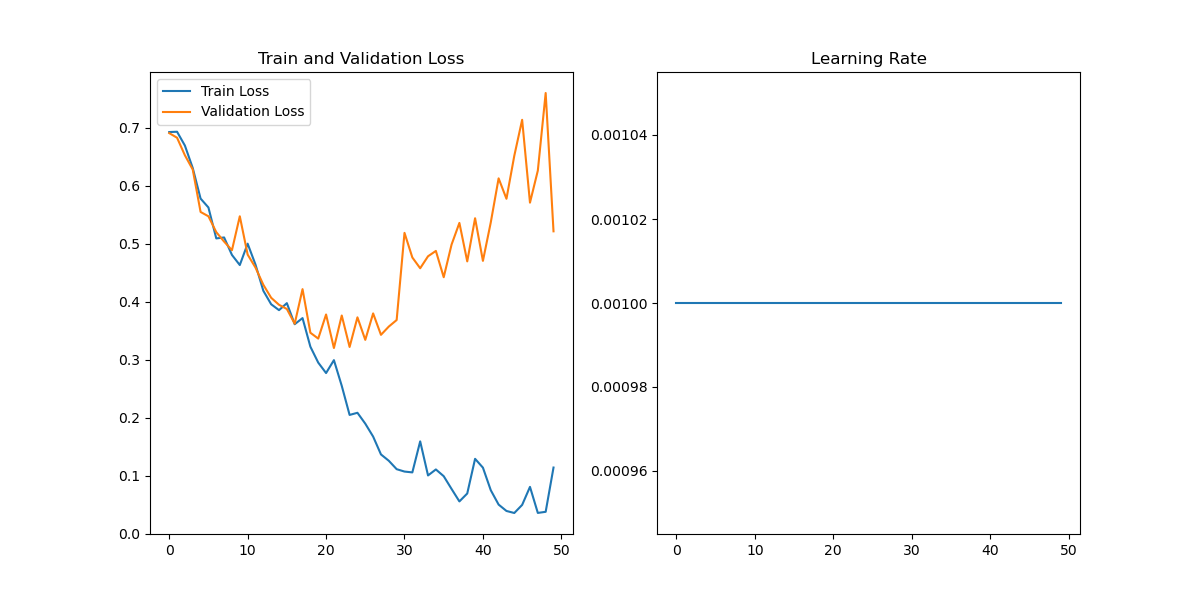
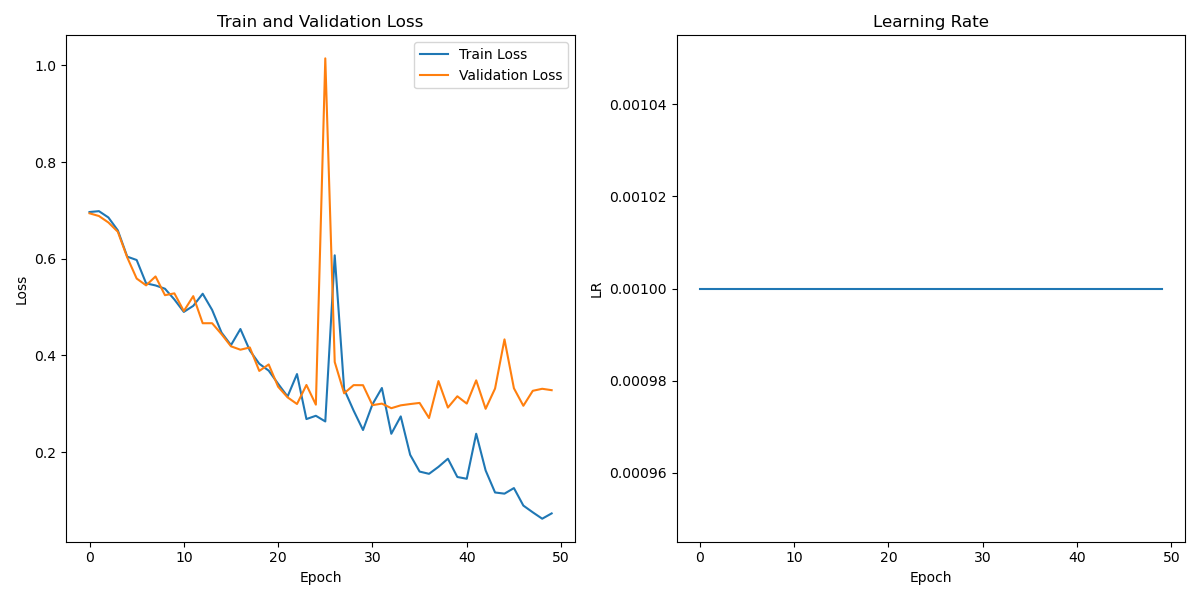
refactoring
add utils, config

diff --git a/main.py b/main.py
@@ -1,67 +1,67 @@
 import torch
-from torchinfo import summary
 from torchmetrics.classification import MulticlassAccuracy
-from pathlib import Path
 
-from data import ImportData
+from config import Config
+from data import FermiDataModule
 from model import FermiMultiBranchCNN
 from training_loop import TrainingLoop
-from logger import logger
+from utils import plot_training_results
 
 
-if __name__ == "__main__":
+def main() -> None:
+    # Initialize configurations
+    config = Config()
+
+    # Setup device-agnostic code
     device = torch.device("cuda") if torch.cuda.is_available() else torch.device("cpu")
     print(f"Using device: {device}")
-    
-    RANDOM_SEED = 42
-    LEARNING_RATE = 0.001
 
-    DATA_DIR = Path("/data1/grosjacques/data")
-    proton_path = DATA_DIR / "dataset_chunk_allpro_no_norm.npz"
-    electron_path = DATA_DIR / "dataset_chunk_allhee_no_norm.npz"
+    torch.manual_seed(config.random_seed)
+    if torch.cuda.is_available():
+        torch.cuda.manual_seed(config.random_seed)
 
-    data = ImportData(proton_path, electron_path)
-    train_loader, val_loader = data.train_split(split=0.8, random_state=RANDOM_SEED)
+    data_module = FermiDataModule(
+        proton_path=config.proton_path,
+        electron_path=config.electron_path,
+        batch_size=config.batch_size
+    )
 
-    torch.manual_seed(RANDOM_SEED)
-    model = FermiMultiBranchCNN()
-    model.to(device)
+    train_loader, val_loader = data_module.train_split(
+        split=config.train_split,
+        random_state=config.random_seed
+    )
 
-    # summary(model=model, input_size=(1, 3, 113, 113))
-
-    # --- TRAINING ---
-    torch.manual_seed(RANDOM_SEED)
-    torch.cuda.manual_seed(RANDOM_SEED)
+    # Define model
+    model = FermiMultiBranchCNN().to(device)
 
     loss_fn = torch.nn.CrossEntropyLoss()
-    optimizer = torch.optim.Adam(params=model.parameters(),
-                                 lr=LEARNING_RATE,
-                                 weight_decay=1e-4)
+    optimizer = torch.optim.Adam(
+        params=model.parameters(),
+        lr=config.learning_rate,
+        weight_decay=config.weight_decay
+    )
     acc_fn = MulticlassAccuracy(num_classes=2)
 
-    training_loop = TrainingLoop(model, loss_fn, optimizer, acc_fn, device)
+    trainer = TrainingLoop(
+        model=model,
+        loss_fn=loss_fn,
+        optimizer=optimizer,
+        accuracy_fn=acc_fn,
+        device=device,
+        model_save_path=config.model_save_path
+    )
 
-    epochs = 50
+    trainer.run(config.epochs, train_loader, val_loader)
 
-    training_loop.run(epochs, train_loader, val_loader)
+    # Save evaluation metrics
+    plot_training_results(
+        epochs=config.epochs,
+        train_losses=trainer.train_losses,
+        val_losses=trainer.val_losses,
+        learning_rates=trainer.learning_rates,
+        save_path=config.plot_save_path
+    )
 
-    import matplotlib.pyplot as plt
-    import numpy as np
 
-    epoch_x = np.arange(0, epochs, 1)
-
-    train_losses = np.array(training_loop.train_losses)
-    val_losses = np.array(training_loop.val_losses)
-    learning_rates = np.array(training_loop.learning_rates)
-
-    plt.figure(figsize=(12, 6))
-    plt.subplot(1, 2, 1)
-    plt.title("Train and Validation Loss")
-    plt.plot(epoch_x, train_losses, label="Train Loss")
-    plt.plot(epoch_x, val_losses, label="Validation Loss")
-    plt.legend()
-    plt.subplot(1, 2, 2)
-    plt.title("Learning Rate")
-    plt.plot(epoch_x, learning_rates)
-
-    plt.savefig("loss_curves.png")
+if __name__ == '__main__':
+    main()

diff --git a/utils.py b/utils.py
@@ -1,0 +1,36 @@
+import numpy as np
+import matplotlib.pyplot as plt
+
+
+def plot_training_results(
+        epochs: int,
+        train_losses: list[float],
+        val_losses: list[float],
+        learning_rates: list[float],
+        save_path: str = "loss_curves.png"
+) -> None:
+    """ Generates and saves optimization loss metrics.
+    """
+    epoch_x = np.arange(0, epochs, 1)
+
+    plt.figure(figsize=(12, 6))
+
+    # Loss curves subplot
+    plt.subplot(1, 2, 1)
+    plt.title("Train and Validation Loss")
+    plt.plot(epoch_x, np.array(train_losses), label="Train Loss")
+    plt.plot(epoch_x, np.array(val_losses), label="Validation Loss")
+    plt.xlabel("Epoch")
+    plt.ylabel("Loss")
+    plt.legend()
+
+    # Learning rate subplot
+    plt.subplot(1, 2, 2)
+    plt.title("Learning Rate")
+    plt.plot(epoch_x, np.array(learning_rates))
+    plt.xlabel("Epoch")
+    plt.ylabel("LR")
+
+    plt.tight_layout()
+    plt.savefig(save_path)
+    plt.close() 

diff --git a/training_loop.py b/training_loop.py
@@ -8,23 +8,25 @@ from logger import logger
 class TrainingLoop:
     """ Class that handles the training loop.
     """
-    def __init__(self,
-                 model: torch.nn.Module,
-                 loss_fn: torch.nn.Module,
-                 optimizer: torch.optim.Optimizer,
-                 accuracy_fn: MulticlassAccuracy,
-                 device: torch.device) -> None:
-        """ Constructor.
-        """
+    def __init__(
+            self,
+            model: torch.nn.Module,
+            loss_fn: torch.nn.Module,
+            optimizer: torch.optim.Optimizer,
+            accuracy_fn: MulticlassAccuracy,
+            device: torch.device,
+            model_save_path: str = "best_fermi_model.pth"
+    ) -> None:
         self.model = model
         self.loss_fn = loss_fn
         self.optimizer = optimizer
         self.accuracy_fn = accuracy_fn.to(device)
         self.device = device
+        self.model_save_path = model_save_path
 
-        self.train_losses = []
-        self.val_losses = []
-        self.learning_rates = []
+        self.train_losses: list[float] = []
+        self.val_losses: list[float] = []
+        self.learning_rates: list[float] = []
 
     def train_step(self, data_loader: torch.utils.data.DataLoader) -> float:
         """ Performs a training step with model trying to learn on data_loader.
@@ -99,6 +101,6 @@ class TrainingLoop:
             # Save the model exactly when it hits a new peak performance
             if val_loss < best_val_loss:
                 best_val_loss = val_loss
-                torch.save(self.model.state_dict(), 'best_fermi_model.pth')
+                torch.save(self.model.state_dict(), self.model_save_path)
 
         logger.info("Training Complete!")

diff --git a/config.py b/config.py
@@ -1,0 +1,23 @@
+from dataclasses import dataclass
+from pathlib import Path
+
+
+@dataclass
+class Config:
+    """ Configuration settings for the classification pipeline.
+    """
+
+    # Paths
+    data_dir: Path = Path("/data1/grosjacques/data")
+    proton_path: Path = data_dir / "dataset_chunk_allpro_no_norm.npz"
+    electron_path: Path = data_dir / "dataset_chunk_allhee_no_norm.npz"
+    model_save_path: str = "best_fermi_model.pth"
+    plot_save_path: str = "loss_curves.png"
+
+    # Hyperparameters
+    random_seed: int = 42
+    learning_rate: float = 0.001
+    weight_decay: float = 1e-4
+    batch_size: int = 32
+    train_split: float = 0.8
+    epochs: int = 50